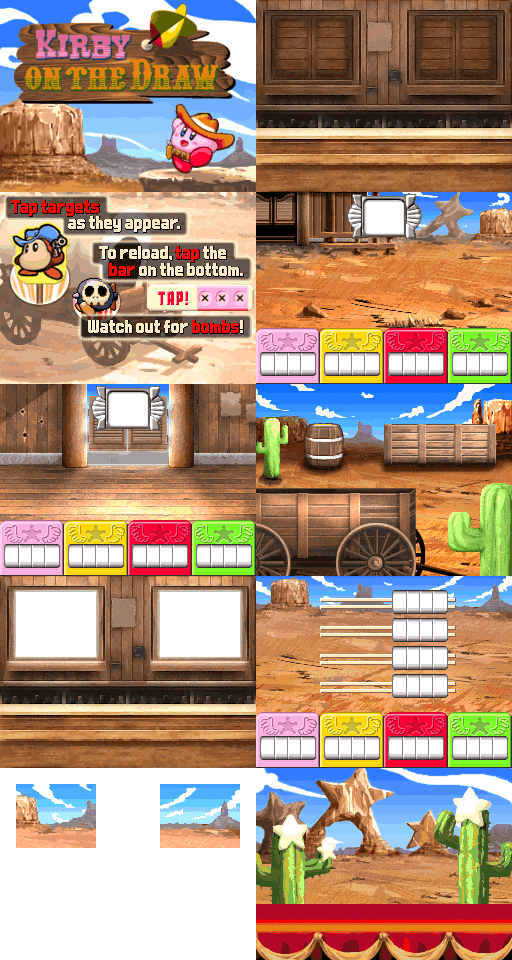
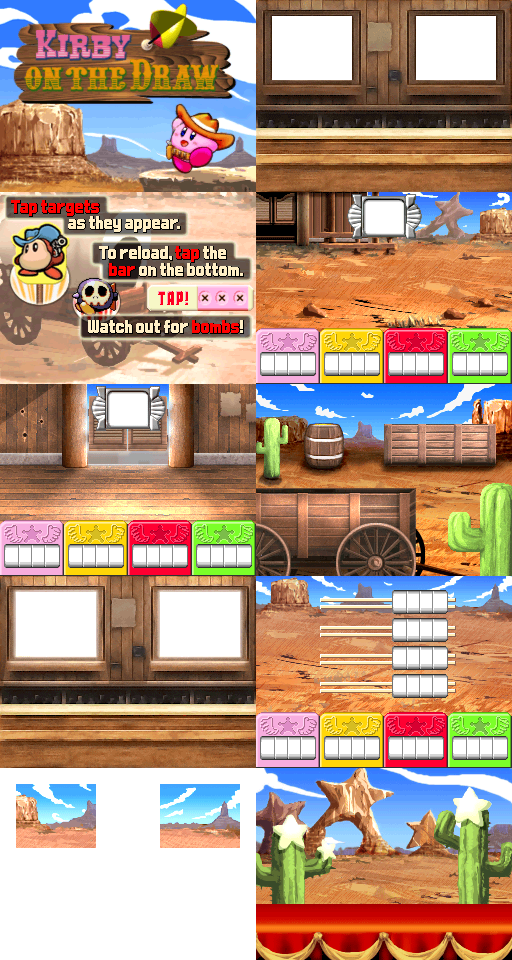
Add Kirbies to results screen, revise spritesheet

diff --git a/src/css/style.css b/src/css/style.css
@@ -1125,16 +1125,16 @@ body.round-started #samurai-kirby:not(.showing-score, .resetting) .player-status
 
 @keyframes dip-out {
   0% {
-    scale: 1.5;
+    scale: 1.9;
   }
   10% {
     scale: 1.8;
   }
   20% {
-    scale: 1.5;
+    scale: 1.9;
   }
   100% {
-    scale: 1.5;
+    scale: 1.9;
   }
 }
 
@@ -1508,7 +1508,7 @@ body.round-started #samurai-kirby:not(.showing-score, .resetting) .player-status
 #kotd-screen > .results-screen {
   position: absolute;
   z-index: 3;
-  display: none;
+  /* display: none; */
 }
 
 #kotd-screen > .results-screen.showing {
@@ -1530,6 +1530,99 @@ body.round-started #samurai-kirby:not(.showing-score, .resetting) .player-status
 #kotd-screen > .bottom-screen.results-screen::before,
 #kotd-screen > .bottom-screen.results-screen::after {
   display: none;
+}
+
+#kotd-results-kirby-area {
+  bottom: calc(var(--ds-screen-height) / 5);
+  align-items: flex-end;
+}
+
+#kotd-results-kirby-area .rank,
+#kotd-results-kirby-area .rank::after,
+#kotd-results-kirby-area .platform {
+  background-image: url(../media/kotd/images/ui/resultssheet.png);
+  background-repeat: no-repeat;
+  background-size: 100% auto;
+}
+
+#kotd-results-kirby-area .rank {
+  position: absolute;
+  top: 0;
+  left: 50%;
+  translate: -50% -80%;
+  --spacing-y: calc(var(--ds-screen-height) / -6); 
+  width: calc(var(--ds-screen-height) / 3);
+  height: calc(var(--ds-screen-height) / 6);
+}
+
+#kotd-results-kirby-area .rank::after {
+  background-position-x: 0;
+  width: calc(var(--ds-screen-height) / 3);
+  height: calc(var(--ds-screen-height) / 6);
+}
+#kotd-results-kirby-area .rank {
+  background-position-x: 0;
+  animation: none;
+}
+#kotd-results-kirby-area .rank.rank-1 {
+  background-position-y: calc(var(--spacing-y) * 1);
+}
+#kotd-results-kirby-area .rank.rank-2 {
+  background-position-y: calc(var(--spacing-y) * 2);
+}
+#kotd-results-kirby-area .rank.rank-3 {
+  background-position-y: calc(var(--spacing-y) * 3);
+}
+#kotd-results-kirby-area .rank.rank-4 {
+  background-position-y: calc(var(--spacing-y) * 4);
+}
+
+#kotd-results-kirby-area .platform {
+  position: relative;
+  --spacing-y: calc(var(--ds-screen-height) / -8); 
+  --starting-bg-y: calc((var(--ds-screen-height) + (var(--ds-screen-height) / 6)) * -1);
+  width: calc(var(--ds-screen-height) / 3);
+  height: calc(var(--ds-screen-height) / 8);
+  z-index: -1;
+}
+
+.results-screen .kirby-stack {
+  display: flex;
+  flex-direction: column;
+  align-items: center;
+}
+
+#kotd-results-kirby-area .kirby-stack.rank-1 .kotd-kirby {
+  background-position-x: calc(var(--spacing-x) * 2);
+  background-position-y: calc(var(--spacing-y) * 2);
+}
+#kotd-results-kirby-area .kirby-stack.rank-2 .kotd-kirby {
+  background-position-y: calc(var(--spacing-y) * 3);
+}
+#kotd-results-kirby-area .kirby-stack.rank-3 .kotd-kirby {
+  background-position-y: calc(var(--spacing-y) * 3);
+}
+#kotd-results-kirby-area .kirby-stack.rank-4 .kotd-kirby {
+  background-position-y: calc(var(--spacing-y) * 3);
+}
+
+#kotd-results-kirby-area .platform.middle {
+  background-position-y: calc(var(--starting-bg-y) + (var(--spacing-y) * 1));
+}
+#kotd-results-kirby-area .platform.bottom {
+  background-position-y: calc(var(--starting-bg-y) + (var(--spacing-y) * 2));
+}
+
+#kotd-results-kirby-area .platform:nth-child(2)::before {
+  content: '';
+  position: absolute;
+  background-image: url(../media/kotd/images/ui/resultssheet.png);
+  background-repeat: no-repeat;
+  background-size: 100% auto;
+  background-position-y: calc((var(--ds-screen-height) + (var(--ds-screen-height) / 6)) * -1);
+  width: inherit;
+  height: inherit;
+  top: -100%;
 }
 
 #kotd-screen > .bottom-screen > #lower-indoor-bg {
@@ -1714,7 +1807,7 @@ body.round-started #samurai-kirby:not(.showing-score, .resetting) .player-status
   width: var(--kotd-kirby-height);
   background-image: url(../media/kotd/images/ui/kotdkirbysheet.png);
   background-repeat: no-repeat;
-  background-size: auto 200%;
+  background-size: auto 400%;
   scale: 1;
 }
 

diff --git a/src/index.html b/src/index.html
@@ -159,8 +159,39 @@
         </div>
         <div id="touch-bar-message"></div>
       </div>
-      <div class="top-screen full-screen-bg results-screen"></div>
-      <div class="bottom-screen full-screen-bg results-screen"></div>
+      <div class="top-screen full-screen-bg results-screen">
+        
+      </div>
+      <div class="bottom-screen full-screen-bg results-screen">
+        <div class="kirby-row" id="kotd-results-kirby-area">
+          <div class="kirby-stack player rank-1">
+            <div class="kotd-kirby player resting">
+              <div class="player-rank rank rank-1"></div>
+            </div>
+            <div class="platform middle"></div>
+            <div class="platform middle"></div>
+            <div class="platform bottom"></div>
+          </div>
+          <div class="kirby-stack lemon rank-2">
+            <div class="kotd-kirby lemon resting">
+              <div class="lemon-rank rank rank-2"></div>
+            </div>
+            <div class="platform middle"></div>
+            <div class="platform bottom"></div>
+          </div>
+          <div class="kirby-stack strawberry rank-3">
+            <div class="kotd-kirby strawberry resting">
+              <div class="strawberry-rank rank rank-3"></div>
+            </div>
+            <div class="platform bottom"></div>
+          </div>
+          <div class="kirby-stack lime rank-4">
+            <div class="kotd-kirby lime resting">
+              <div class="lime-rank rank rank-4"></div>
+            </div>
+          </div>
+        </div>
+      </div>
       <div class="curtains closed" id="kotd-top-curtains">
         <div class="left-curtain curtain-half">
           <div class="curtain-segment"></div>

diff --git a/src/js/KirbyOnTheDrawGame.js b/src/js/KirbyOnTheDrawGame.js
@@ -61,7 +61,7 @@ export default class KirbyOnTheDrawGame {
       [
         undefined,
         {
-          roundLength: 30,
+          roundLength: 1,
           groupAmount: 1,
           groupTimeGap: 180, // ms
           groupFrequency: 16, // .1s
@@ -128,21 +128,21 @@ export default class KirbyOnTheDrawGame {
       undefined,
       {
         name: 'lemon',
-        targetFrequency: 11,
-        reactionSpeed: 700,
-        bombAvoidance: 30,
+        targetFrequency: 8,
+        reactionSpeed: 400,
+        bombAvoidance: 50,
       },
       {
         name: 'strawberry',
-        targetFrequency: 13,
-        reactionSpeed: 800,
-        bombAvoidance: 50,
+        targetFrequency: 7,
+        reactionSpeed: 500,
+        bombAvoidance: 75,
       },
       {
         name: 'lime',
         targetFrequency: 6,
-        reactionSpeed: 600,
-        bombAvoidance: 10,
+        reactionSpeed: 300,
+        bombAvoidance: 40,
       },
     ];
 

diff --git a/src/js/Kirby.js b/src/js/Kirby.js
@@ -30,7 +30,6 @@ export default class Kirby {
     this.rankContainer.classList.add('rank-4');
     
     document.querySelector('#kotd-screen #kotd-kirby-rank-area').appendChild(this.rankContainer);
-    document.querySelector('#kotd-screen #kotd-kirby-rank-area').appendChild(this.rankContainer);
     document.querySelector('#kotd-screen #kotd-kirby-area').appendChild(this.container);
     document.querySelector('#kotd-screen #kotd-kirby-score-area').appendChild(this.scoreContainer);
     document.querySelector('#kotd-screen #kotd-kirby-ammo-area').appendChild(this.ammoContainer);
